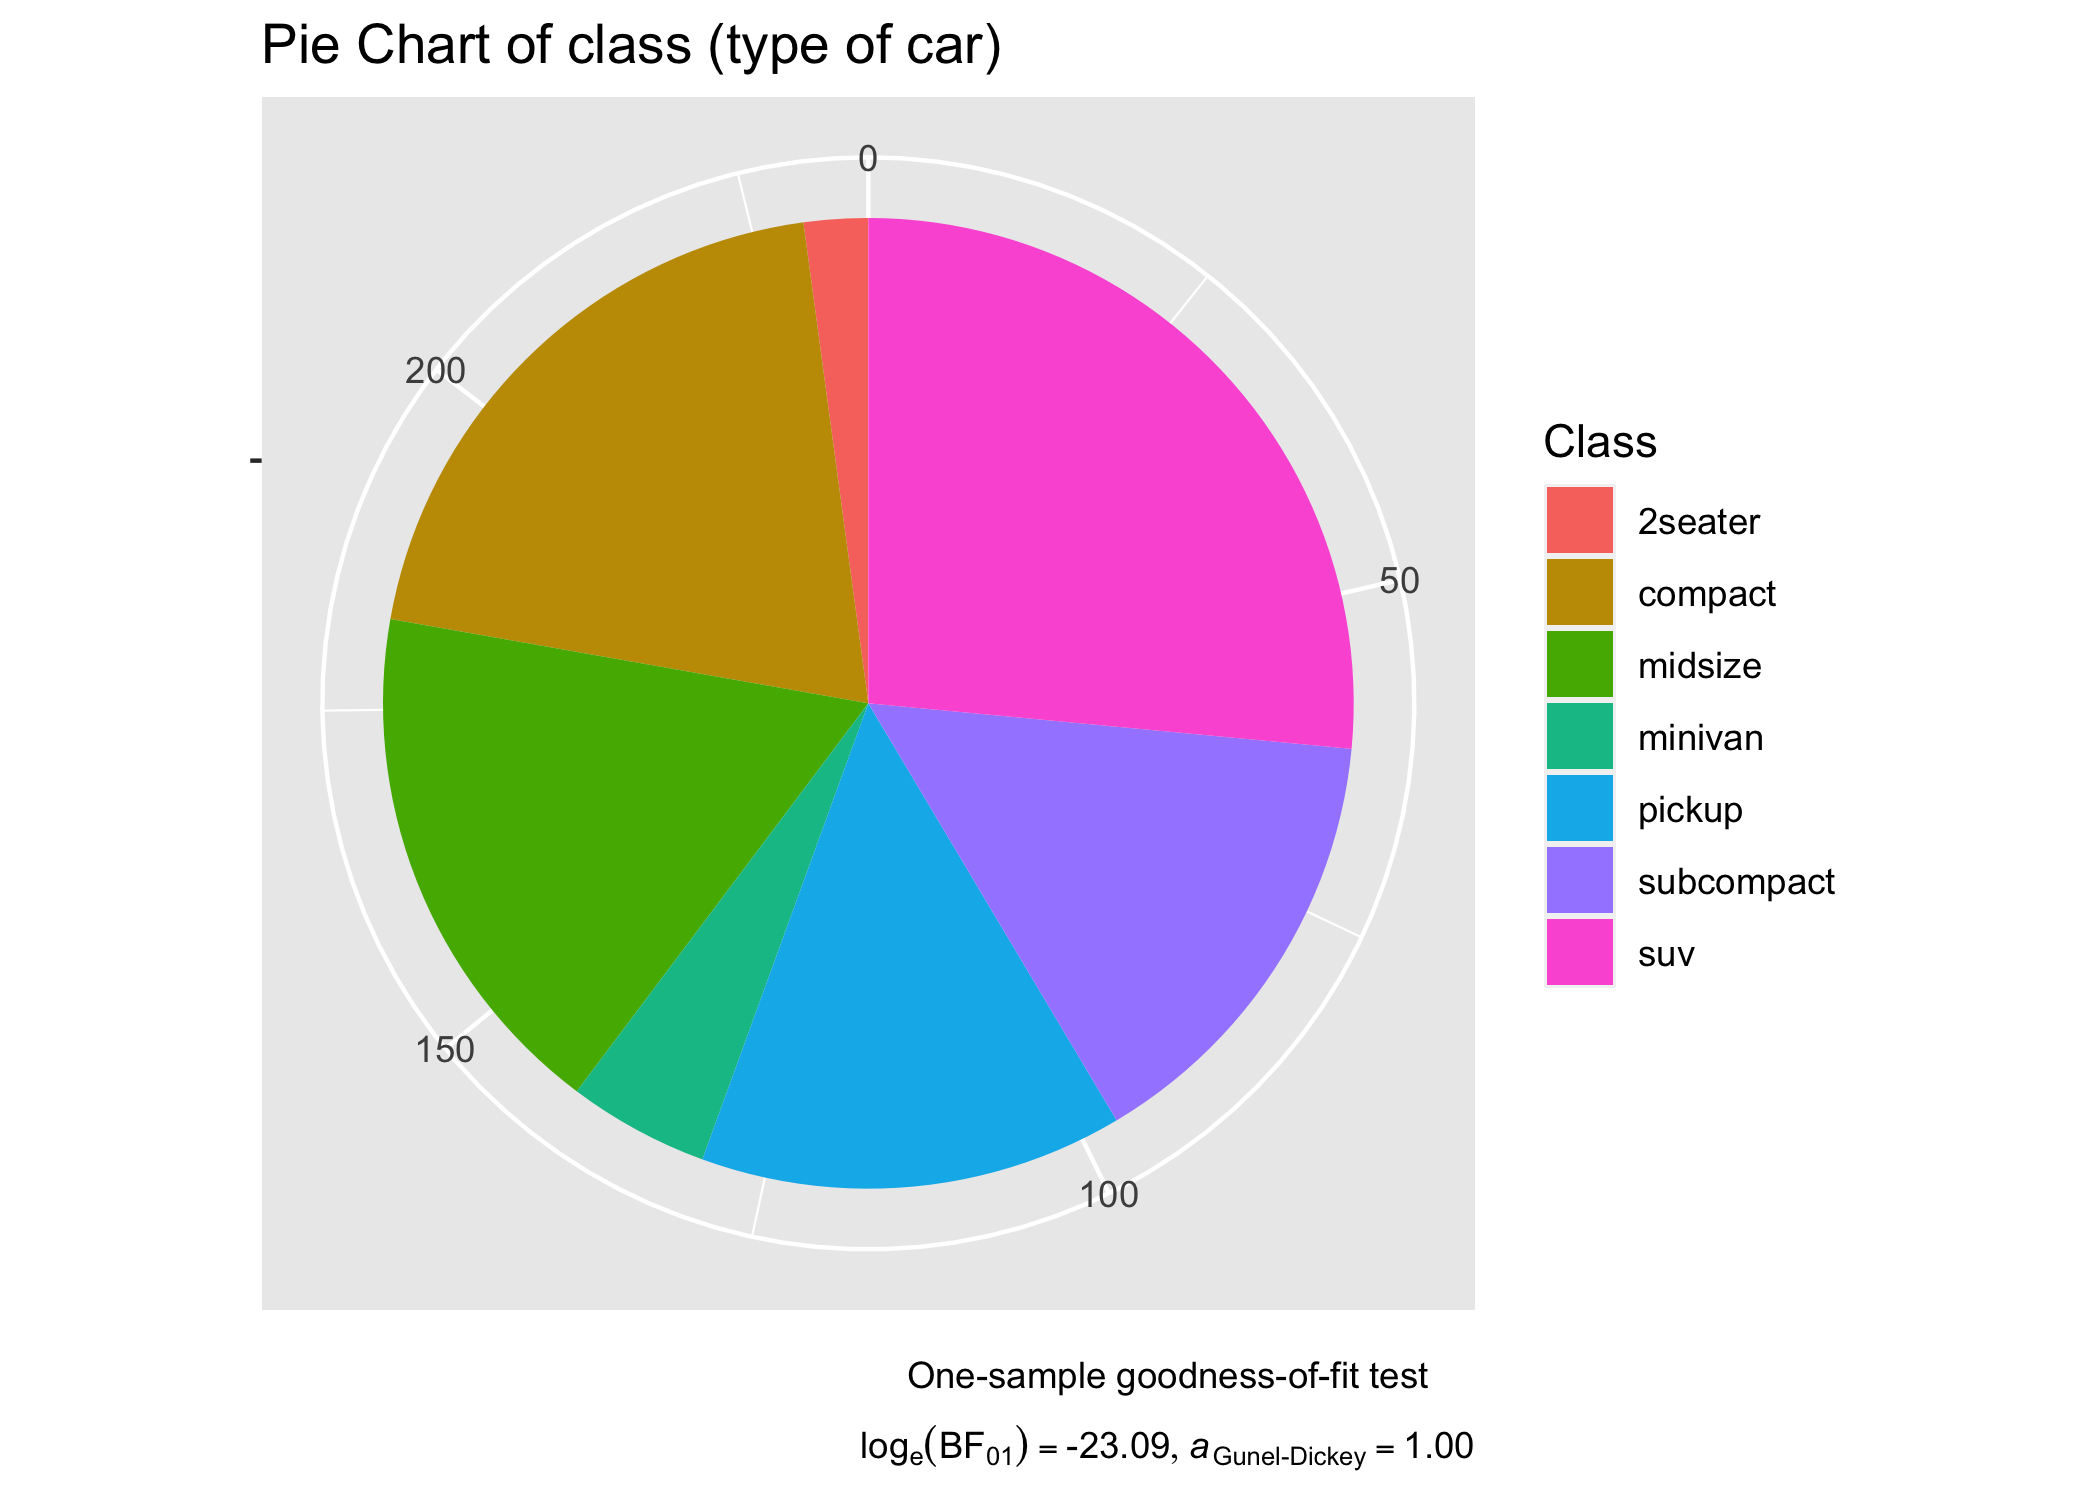
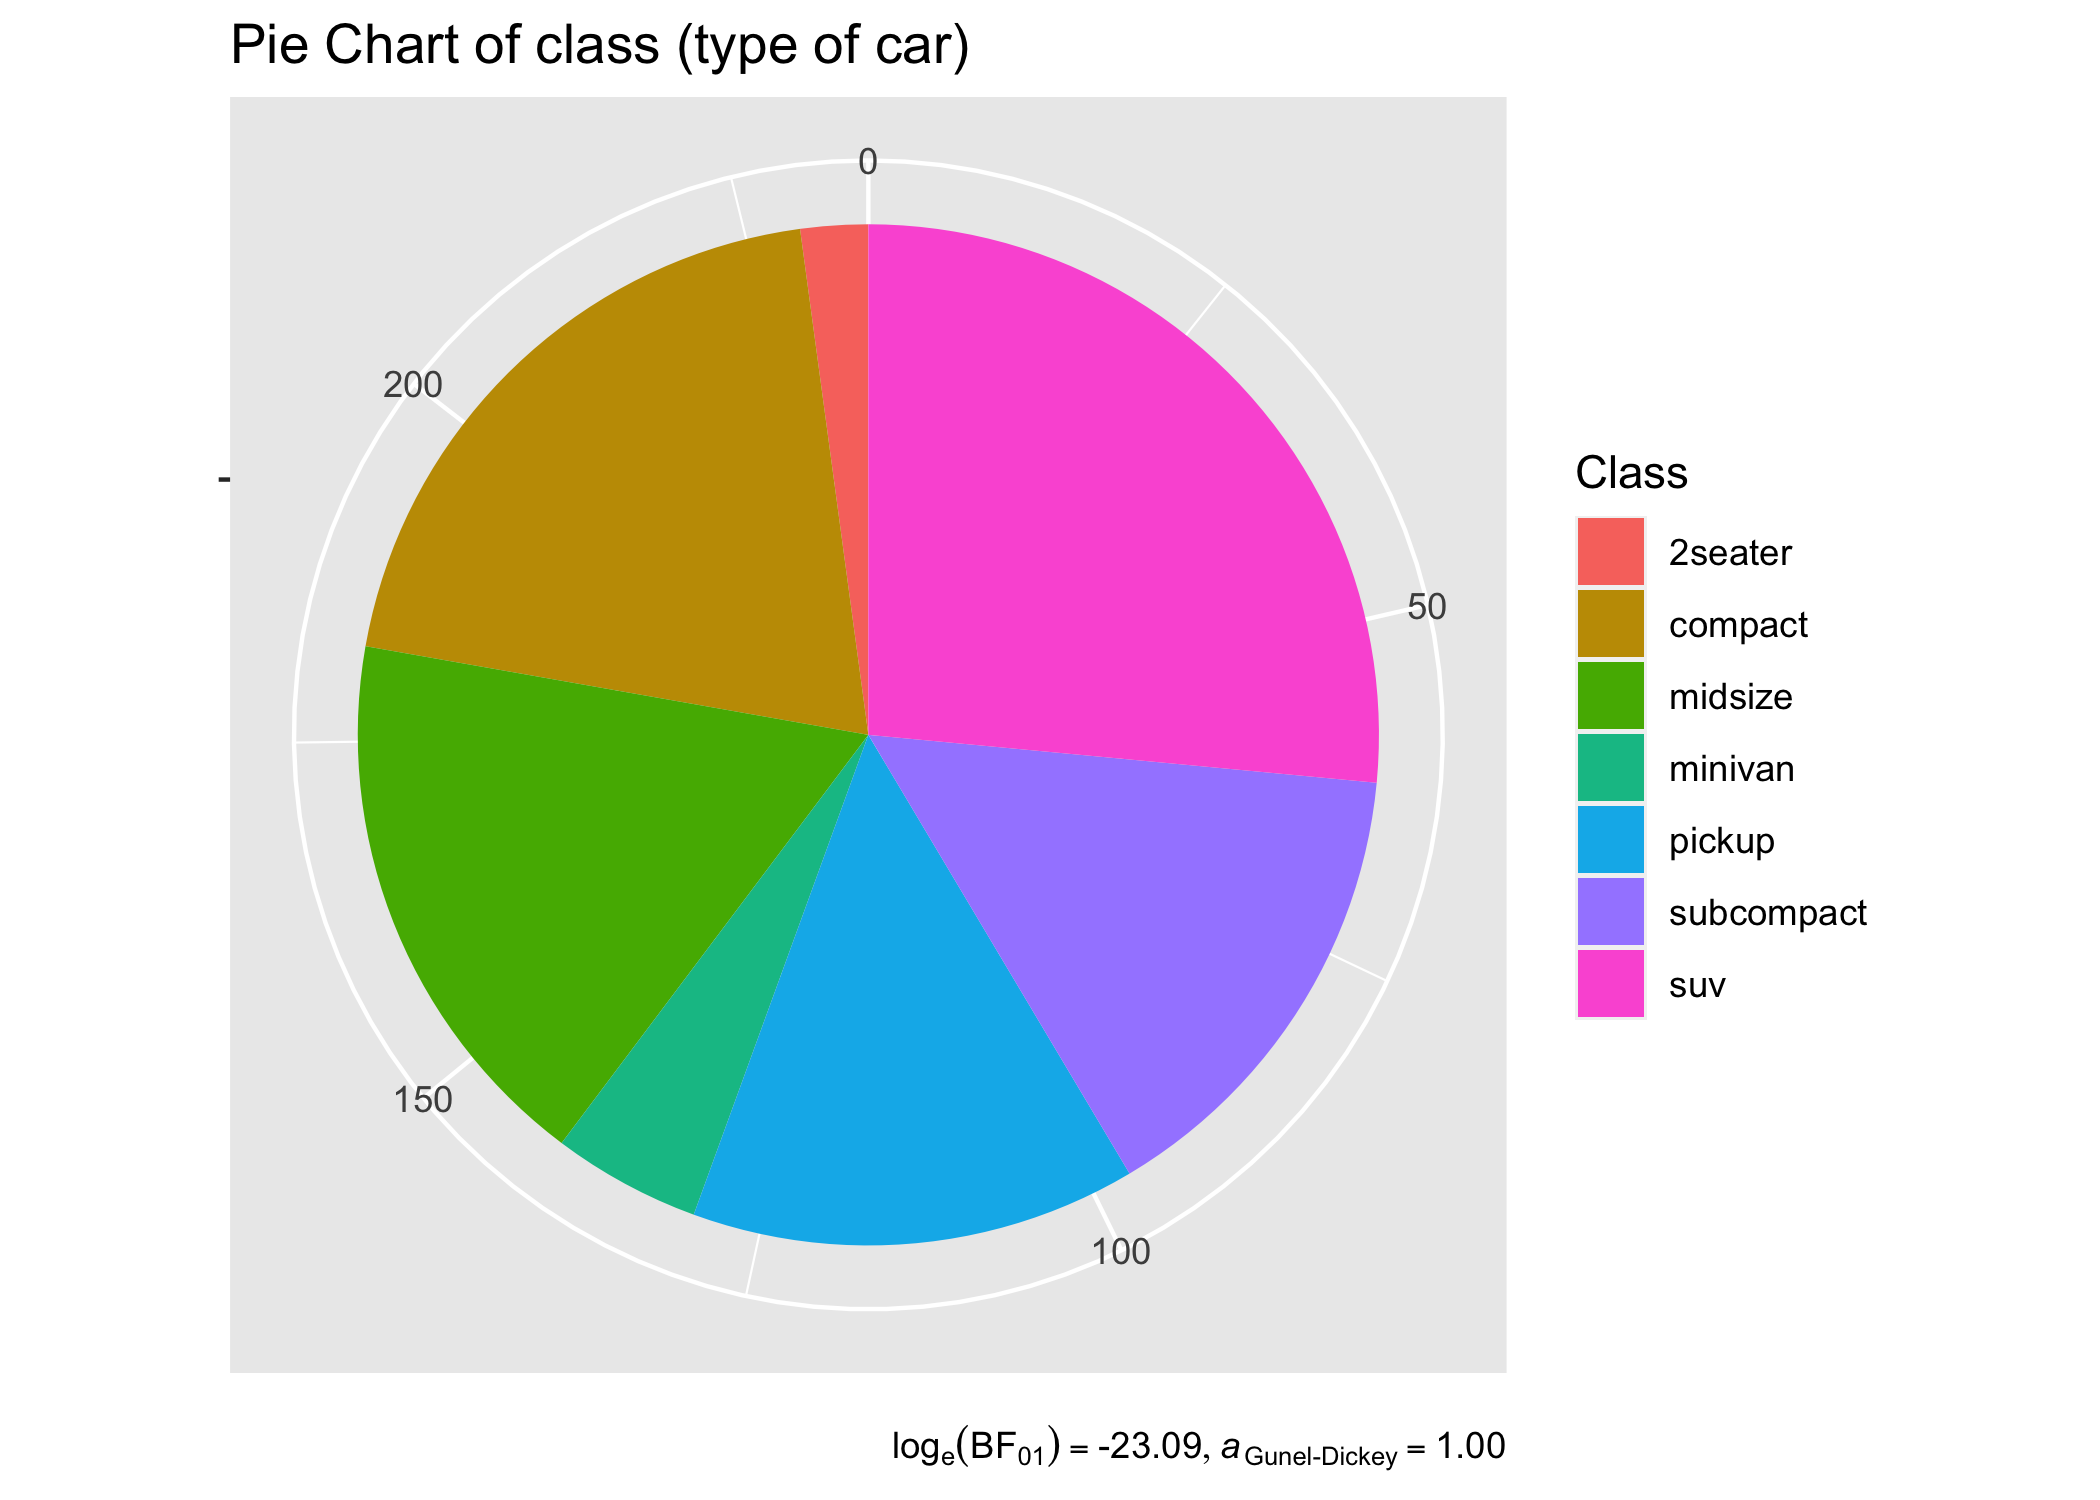
remove top.text parameter

diff --git a/README.md b/README.md
@@ -364,10 +364,7 @@ set.seed(123)
 library(ggplot2)
 
 # dataframe with results
-df_results <- one_sample_test(mtcars, wt,
-  test.value = 3, type = "bayes",
-  top.text = "Bayesian one-sample t-test"
-)
+df_results <- one_sample_test(mtcars, wt, test.value = 3, type = "bayes")
 
 # creating a histogram plot
 ggplot(mtcars, aes(wt)) +
@@ -410,11 +407,11 @@ For categorical/nominal data - one-sample:
 set.seed(123)
 library(ggplot2)
 
-df_results <- contingency_table(as.data.frame(table(mpg$class)),
+df_results <- contingency_table(
+  as.data.frame(table(mpg$class)),
   Var1,
   counts = Freq,
-  type = "bayes",
-  top.text = "One-sample goodness-of-fit test"
+  type = "bayes"
 )
 
 # basic pie chart

diff --git a/tests/testthat/_snaps/corr_test.md b/tests/testthat/_snaps/corr_test.md
@@ -86,7 +86,7 @@
     Code
       as.character(subtitle1$expression[[1]])
     Output
-      [1] "list(atop(\"huh is duh\", list(log[e] * (BF[\"01\"]) == \"1.07\", widehat(rho)[\"Pearson\"]^\"posterior\" == \"-0.12\", CI[\"95%\"]^HDI ~ \"[\" * \"-0.28\", \"0.04\" * \"]\", italic(\"r\")[\"beta\"]^\"JZS\" == \"1.41\")))"
+      [1] "list(log[e] * (BF[\"01\"]) == \"1.07\", widehat(rho)[\"Pearson\"]^\"posterior\" == \"-0.12\", CI[\"95%\"]^HDI ~ \"[\" * \"-0.28\", \"0.04\" * \"]\", italic(\"r\")[\"beta\"]^\"JZS\" == \"1.41\")"
 
 # bayes factor (correlation test) - with NAs
 

diff --git a/tests/testthat/_snaps/z_meta_random_bayes.md b/tests/testthat/_snaps/z_meta_random_bayes.md
@@ -22,5 +22,5 @@
     Code
       as.character(df$expression[[1]])
     Output
-      [1] "list(atop(\"ayyo arecha\", list(log[e] * (BF[\"01\"]) == \"-3.587\", widehat(delta)[\"difference\"]^\"posterior\" == \"0.596\", CI[\"95%\"]^HDI ~ \"[\" * \"0.313\", \"0.847\" * \"]\", italic(\"r\")[\"Cauchy\"]^\"JZS\" == \"0.707\")))"
+      [1] "list(log[e] * (BF[\"01\"]) == \"-3.587\", widehat(delta)[\"difference\"]^\"posterior\" == \"0.596\", CI[\"95%\"]^HDI ~ \"[\" * \"0.313\", \"0.847\" * \"]\", italic(\"r\")[\"Cauchy\"]^\"JZS\" == \"0.707\")"
 

diff --git a/tests/testthat/_snaps/two_sample_bayes.md b/tests/testthat/_snaps/two_sample_bayes.md
@@ -10,5 +10,5 @@
     Code
       as.character(df$expression[[1]])
     Output
-      [1] "list(atop(\"bla is ulalala\", list(log[e] * (BF[\"01\"]) == \"-3.70\", widehat(delta)[\"difference\"]^\"posterior\" == \"1.09\", CI[\"95%\"]^HDI ~ \"[\" * \"0.49\", \"1.70\" * \"]\", italic(\"r\")[\"Cauchy\"]^\"JZS\" == \"0.80\")))"
+      [1] "list(log[e] * (BF[\"01\"]) == \"-3.70\", widehat(delta)[\"difference\"]^\"posterior\" == \"1.09\", CI[\"95%\"]^HDI ~ \"[\" * \"0.49\", \"1.70\" * \"]\", italic(\"r\")[\"Cauchy\"]^\"JZS\" == \"0.80\")"
 

diff --git a/NEWS.md b/NEWS.md
@@ -11,6 +11,10 @@ MAJOR CHANGES
     `label`, while other times in `expression` column. Now it will be
     consistently in the `expression` column.
 
+  - The `top.text` parameter has been removed from all functions. It was
+    relevant only in the context of `{ggstatsplot}` package. As that package no
+    longer uses it, it is no longer necessary to retain it.
+
 # statsExpressions 1.3.1
 
   - Fixes breakages due to `{insight}` package update.

diff --git a/tests/testthat/_snaps/contingency_table.md b/tests/testthat/_snaps/contingency_table.md
@@ -193,7 +193,7 @@
     Code
       as.character(df2$expression[[1]])
     Output
-      [1] "list(atop(\"duh\", list(log[e] * (BF[\"01\"]) == \"0.55\", italic(\"a\")[\"Gunel-Dickey\"] == \"10.00\")))"
+      [1] "list(log[e] * (BF[\"01\"]) == \"0.55\", italic(\"a\")[\"Gunel-Dickey\"] == \"10.00\")"
 
 # bayes factor (contingency tab)
 
